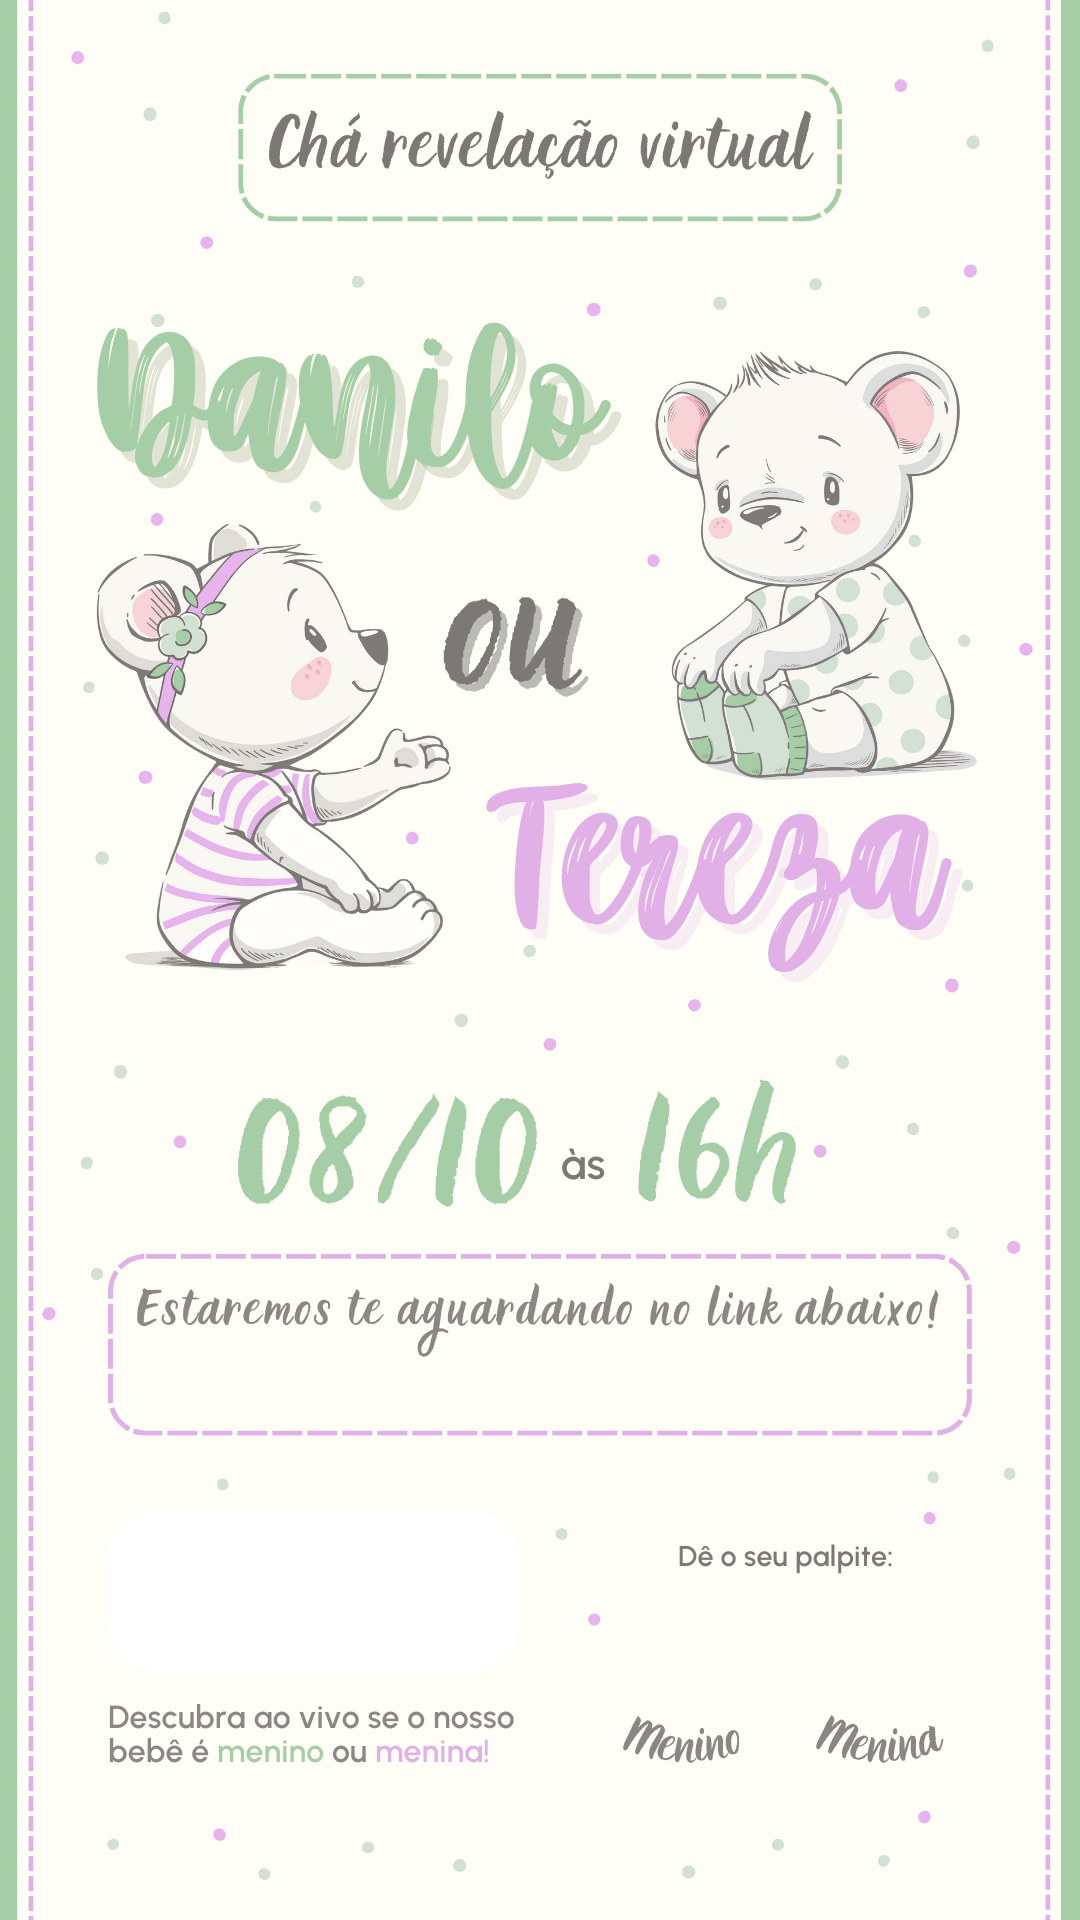
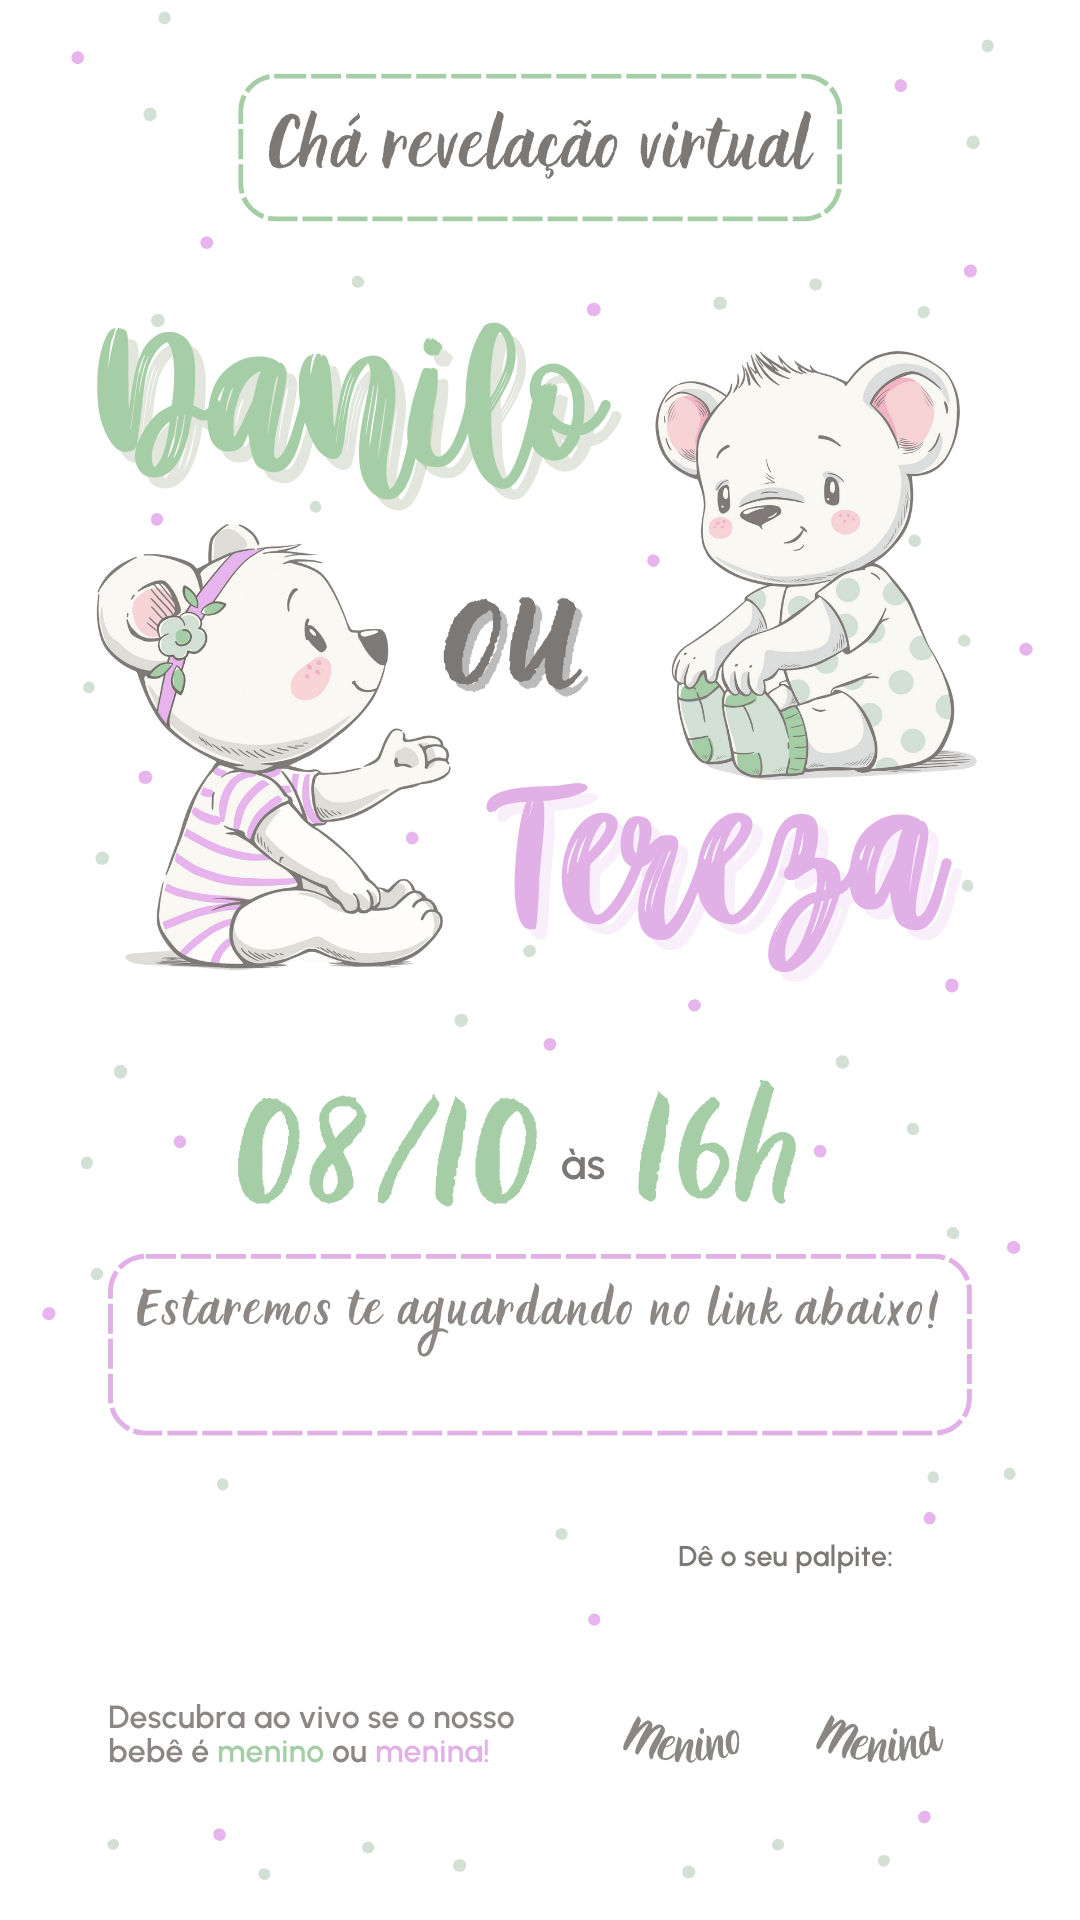
Ajuste fundo

Changed region(s): [[0.9472, 0.0, 1.0, 1.0], [0.0, 0.0, 0.0306, 1.0]]

diff --git a/style.css b/style.css
@@ -6,13 +6,15 @@ body {
   align-items: center;
   margin: auto;
   background-color: #fefdf6;
-  background-image: url("/fundo-cha.png");
-  background-repeat: no-repeat;
+  background-image: url("/fundo_tela.png");
   background-position: center;
   background-size: contain;
 }
 
 .bodyalign {
+  background-image: url("/fundo-cha.png");
+  background-position: center;
+  background-size: contain;
   display: flex;
   align-items: center;
   justify-content: center;
